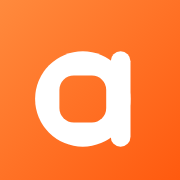
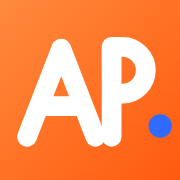
feat(brand): ロゴを AP モノグラム + 青いピリオドに変更
- 6 案から AP モノグラムを採用。青丸（#2F6BFF）の差し込みは「AP.」のピリオド位置に決定
- Logo / LogoMark（onLight で白地用のオレンジ文字版）、favicon.svg、PWA アイコン、docs/logo.png を差し替え
- README / CLAUDE.md（ブランド方針）/ PROGRESS を更新

Claude-Session: https://claude.ai/code/session_017vP5mhVk5XgThLW1WmKo7L

Changed region(s): [[0.0833, 0.1944, 0.8889, 0.8333], [0.8056, 0.6111, 0.9722, 0.7778]]

diff --git a/src/shared/ui/Logo.tsx b/src/shared/ui/Logo.tsx
@@ -1,11 +1,21 @@
 import { cn } from '@/shared/lib/cn';
 
 /**
- * Any Pay のロゴマーク。オレンジのスクワークル（角丸四角）に、幾何学的な小文字 "a"
- * （円形のボウル + 右のステム）。カウンター（穴）を角丸の四角にして QR のモジュールを暗示する。
- * public/favicon.svg / icons と同じ図形
+ * Any Pay のロゴマーク：AP モノグラム + 青いピリオド。
+ * オレンジのグラデーション角丸四角に白い「A」「P」（丸いストローク）、右下に青（#2F6BFF）の丸を
+ * ピリオドとして置いてアクセントにする。public/favicon.svg / PWA アイコンと同じ図形。
+ * `onLight` は白地に置く版（文字がオレンジ、背景なし）
  */
-export function LogoMark({ size = 40, className }: { size?: number; className?: string }) {
+export function LogoMark({
+  size = 40,
+  onLight = false,
+  className,
+}: {
+  size?: number;
+  onLight?: boolean;
+  className?: string;
+}) {
+  const letter = onLight ? '#ff6b1a' : '#ffffff';
   return (
     <svg
       width={size}
@@ -15,21 +25,29 @@ export function LogoMark({ size = 40, className }: { size?: number; className?: 
       aria-label="Any Pay"
       className={cn('shrink-0', className)}
     >
-      <defs>
-        <linearGradient id="ap-logo-g" x1="0" y1="0" x2="1" y2="1">
-          <stop offset="0" stopColor="#ff8a3d" />
-          <stop offset="1" stopColor="#ff5a0f" />
-        </linearGradient>
-        <mask id="ap-logo-m">
-          <rect width="100" height="100" fill="#fff" />
-          <rect x="33" y="42" width="26" height="26" rx="8" fill="#000" />
-        </mask>
-      </defs>
-      <rect width="100" height="100" rx="26" fill="url(#ap-logo-g)" />
-      <g fill="#fff" mask="url(#ap-logo-m)">
-        <circle cx="46" cy="55" r="26.5" />
-        <rect x="61.5" y="28.5" width="11" height="53" rx="5.5" />
+      {!onLight && (
+        <>
+          <defs>
+            <linearGradient id="ap-logo-g" x1="0" y1="0" x2="1" y2="1">
+              <stop offset="0" stopColor="#ff8a3d" />
+              <stop offset="1" stopColor="#ff5a0f" />
+            </linearGradient>
+          </defs>
+          <rect width="100" height="100" rx="26" fill="url(#ap-logo-g)" />
+        </>
+      )}
+      <g
+        transform="translate(-4 0)"
+        fill="none"
+        stroke={letter}
+        strokeWidth="11"
+        strokeLinecap="round"
+        strokeLinejoin="round"
+      >
+        <path d="M19 76 L38 27 L57 76 M27 59 H49" />
+        <path d="M66 76 V26 H72 a13 13 0 0 1 0 26 H66" />
       </g>
+      <circle cx="89" cy="70" r="6.5" fill="#2f6bff" />
     </svg>
   );
 }
@@ -38,15 +56,17 @@ export function LogoMark({ size = 40, className }: { size?: number; className?: 
 export function Logo({
   size = 32,
   wordmark = true,
+  onLight = false,
   className,
 }: {
   size?: number;
   wordmark?: boolean;
+  onLight?: boolean;
   className?: string;
 }) {
   return (
     <span className={cn('inline-flex items-center gap-2.5', className)}>
-      <LogoMark size={size} />
+      <LogoMark size={size} onLight={onLight} />
       {wordmark && (
         <span
           className="font-bold tracking-tight text-fg"

diff --git a/PROGRESS.md b/PROGRESS.md
@@ -138,3 +138,7 @@
 - 主要部品：Card（白＋細い枠線＋薄い影）、Button（primary はオレンジ＋影、secondary / outline / ghost は白基調）、Segmented / LanguageToggle（薄いグレーのトラックに白 or オレンジのピル）、残高カード（オレンジのグラデーションに白文字）、ホームの「支払う」は黒ボタンで対比、入金額は success（緑）で表示
 - 検証：全 26 画面をスクリーンショットで確認（日本語）。型・Lint・Vitest・キー整合すべて通過
 - 判断メモ：色クラスは「意味付きトークン」だけに統一し、今後のテーマ変更を CSS 変数の差し替えで済むようにした
+
+## ロゴ確定（AP モノグラム + 青いピリオド）
+- 6 案（ファインダー・コイン / コイン・アロー / ウォレット・カード / リボン a / スキャン・フレーム / AP モノグラム）から AP モノグラムを採用。青丸の差し込みは 3 パターン（P の中 / A の頂点 / ピリオド）を比較し、小サイズでも視認できる「AP.」のピリオド（`#2F6BFF`）に決定
+- `Logo.tsx`（`onLight` で白地用のオレンジ文字版）、`favicon.svg`、PWA アイコン、`docs/logo.png` を差し替え

diff --git a/CLAUDE.md b/CLAUDE.md
@@ -9,7 +9,7 @@
   - 二重記帳の台帳、原子的な残高更新、冪等性、RLSによるアクセス制御、ワンタイムQRの失効管理
 - **実際のお金は一切動かない**。残高は架空。資金決済法・犯収法の要件は対象外（READMEに明記する）
 - 将来 Capacitor で iOS アプリ化する。移行を容易にする設計ルールを守る（§6）
-- ブランド：白×オレンジ（`#FF6B1A`）のライトテーマのオリジナルUI（ロゴ：角丸四角＋幾何学的な "a"）。PayPay等のロゴ・配色・文言をコピーしない。色は `src/index.css` の意味付きトークン（brand / canvas / surface / line / fg / muted / faint）だけを使う
+- ブランド：白×オレンジ（`#FF6B1A`）のライトテーマのオリジナルUI（ロゴ：角丸四角に AP モノグラム＋青 `#2F6BFF` のピリオド）。PayPay等のロゴ・配色・文言をコピーしない。色は `src/index.css` の意味付きトークン（brand / canvas / surface / line / fg / muted / faint）だけを使う
 
 ## 1. 技術スタック（固定。変更しない）
 
